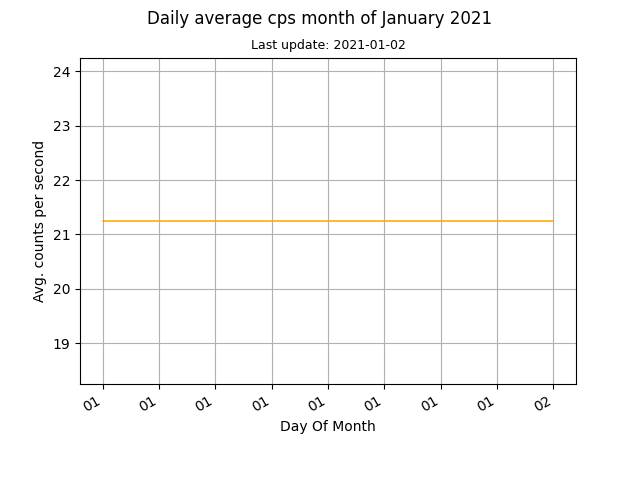
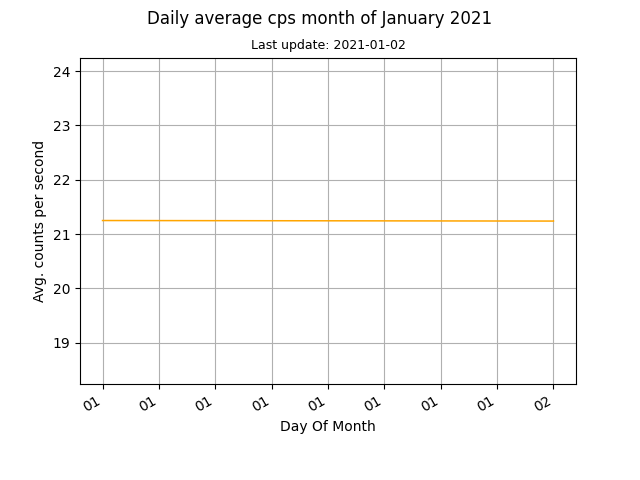
auto data update

diff --git a/docs/index.html b/docs/index.html
@@ -45,8 +45,8 @@
 	
 	<br>
 	
-	<p>Current counts per second (cps): 21.3</p>
-	<p>Last update: 2021-01-02, 22:47</p>
+	<p>Current counts per second (cps): 21.14</p>
+	<p>Last update: 2021-01-02, 23:02</p>
 
 	<p><a href="images/monthly.png"><img src="images/monthly.png" alt="Mothly avg cps data"></a><a href="images/daily.png"><img src="images/daily.png" alt="Daily avg cps data"></a></p>
 	
